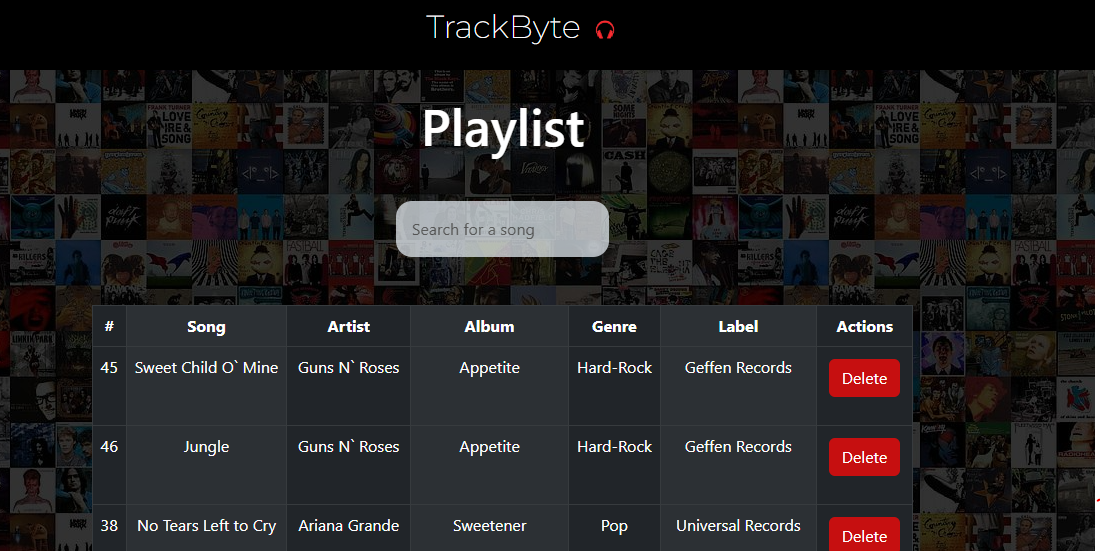
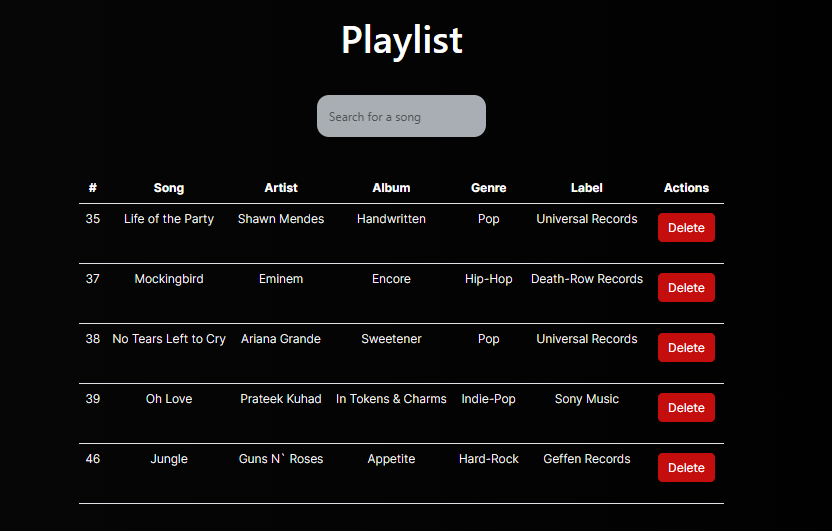
changed UI and improved queries

diff --git a/client/src/Home/Home.jsx b/client/src/Home/Home.jsx
@@ -8,11 +8,14 @@ const Home = () => {
   let barData=[];
   let pieLabelData=[];
   let pieData=[];
+  const [loaded,setLoaded]=useState(false)
+  const [loaded1,setLoaded1]=useState(false)
   const [loading, setLoading] = useState(true);
   const [loading1,setLoading1]=useState(true)
+  const [favArtist,setFavArtist]=useState('');
   const [userData,setUserData]=useState({})
   const [pieChartData,setPieChartData]=useState({})
-  
+  const loadGif="https://acegif.com/wp-content/uploads/loading-11.gif"
   //To get Bar Chart Data
   useEffect(()=>{
     setLoading(true);
@@ -27,11 +30,12 @@ const Home = () => {
           {
             label:"Seconds",
             data:barData,
-            backgroundColor: 'rgba(255, 99, 132, 0.5)'
+            backgroundColor: 'rgba(0, 0, 54.5, 1)'
           }
         ]
       });
     },)
+    .then((res)=>setLoaded(true))
     .catch((err)=>console.log(err)
     )
     .finally(() => {
@@ -40,16 +44,24 @@ const Home = () => {
 },[])
   const option = {
     responsive: true,
+    indexAxis: 'y',
     plugins: {
       legend: {
-        position: 'top',
+        position: 'right',
       },
-      title: {
-        display: true,
-        text: 'Chart.js Bar Chart',
+        title: {
+          display: true,
+          text: 'Chart.js Bar Chart',
+        },
+        scales:{
+          yAxes:{
+            ticks:{
+              color:'white'
+            },
+          }
+        }
       },
-    },
-  };
+    };
 
   //To get Pie Chart Data
   useEffect(()=>{
@@ -57,7 +69,7 @@ const Home = () => {
     axios.get("http://localhost:3000/getpiedata")
       .then((res)=>{for (const Obj of res.data) {
         pieLabelData.push(Obj.albumName);
-        pieData.push(Obj.seconds/2);
+        pieData.push(Obj.seconds);
       }
       setPieChartData({
         labels:pieLabelData,
@@ -76,35 +88,72 @@ const Home = () => {
         ]
       });
     },)
+    .then((res)=>setLoaded1(true))
     .catch((err)=>console.log(err)
     )
     .finally(() => {
       setLoading1(false);
     });
 },[])
-  // console.log(pieChartData)
+  // console.log(pieChartData.datasets[0].data[0])
+  useEffect(()=>{
+    axios.get("http://localhost:3000/getFavArt")
+    .then((res)=>setFavArtist(res.data[0]))
+    .catch((err)=>console.log(err))
+  },[])
+
   return (
-    <div>
+    <div className='p-5'>
       <Navbar/>
-      <h1 className='mt-5'> Your Analytics</h1>
-      <div className=' p-4 mt-5 text-white d-flex'>
-      <div className='p-4 chart bg-black'>
-      <h5 className='p-5 mx-auto'>
+      <h1 className='mt-5 '> Analytics</h1>
+      <hr/>
+      <div className=' p-4 mt-5 text-white d-flex justify-content-center align-items-center flex-row '>
+      <div className='p-4 col-6 chart'>
+      <h2 className='p-5'>
         Your favorite genres
-        </h5> 
+        </h2> 
         {
-          loading ? <img src="https://media.tenor.com/UnFx-k_lSckAAAAM/amalie-steiness.gif"/> : 
+          loading ? <img src={loadGif}/> : 
           <BarChart data={userData} options={option}/>
         } 
         </div>
-        <div className='bg-black mx-5 p-3 chart'>
-          <h5>
+        <div className='mx-3 col-6 p-5'>
+          <h2>
+          Your favorite genre is {loaded ? <p className='text-warning'>{userData.labels[0]}</p>:<></>}
+          </h2>
+          <h2>
+            You listened to {loaded ? userData.datasets[0].data[0]:<></>} seconds of it!
+          </h2>
+        </div>
+      </div>
+      <div className='p-4 mt-5 text-white d-flex justify-content-center align-items-center flex-row'>
+        <div className='mx-3 col-6'>
+          <h2>Your favorite album is {loaded1 ? <p className='text-danger'>{pieChartData.labels[0]}</p>:<></>}</h2>
+          <h2>You listened to {loaded1 ? pieChartData.datasets[0].data[0]: <></>} seconds of it!</h2>
+        </div>
+        <div className='mx-4 p-5  justify-content-center align-items-center col-5 chart'>
+          <h2 className='mt-2'>
             Your favorite albums
-          </h5>
+          </h2>
 {
-          loading1 ? <img src="https://media.tenor.com/UnFx-k_lSckAAAAM/amalie-steiness.gif"/> : 
+          loading1 ? <img src={loadGif} className='col-5'/> :
 <PieChart piedata={pieChartData}/>
         } 
+        </div>
+        </div>
+      <div className='mt-5  p-5 justify-content-center align-items-center'>
+        <h1>Artist</h1>
+        <hr/>
+        <div className='d-flex flex-row align-items-center justify-content-center'>
+        <img src={favArtist.link} className='mt-5 col-5 albumCover'/>
+        <div className='mx-5  mt-5 d-flex flex-column p-5'>
+        <h2>Your favorite artist is 
+          <p className='text-primary'>
+            {favArtist.artName}
+            </p>
+            </h2>
+        <h2 className='m-5'>You listened to {loaded ? favArtist.seconds : <></>} seconds of their music!</h2>
+        </div>
         </div>
       </div>
     </div>

diff --git a/client/src/index.css b/client/src/index.css
@@ -1,5 +1,5 @@
 :root {
-  font-family: Inter, Avenir, Helvetica, Arial, sans-serif;
+  font-family: Inter;
   font-size: 16px;
   line-height: 24px;
   font-weight: 400;
@@ -27,7 +27,7 @@ a:hover {
 body {
   margin: 0;
   display: flex;
-  place-items: center;
+  place-items:initial;
   min-width: 320px;
   min-height: 100vh;
 }
@@ -57,7 +57,14 @@ button:focus-visible {
 }
 
 .chart{
-  border-radius: 1em;
-  background-color: transparent;
-  
+  border-radius: 2em;
+  /* background-color:#343538; */
+  font-family:'Inter';
+  background-image:radial-gradient(at 82% 30%, rgba(20,20,57,0.46) 0px, transparent 50%),radial-gradient(at 100% 66%, #29183f 0px, transparent 50%),radial-gradient(at 100% 0%, #161339 0px, transparent 50%),radial-gradient(at 35% 0%, #21163b 0px, transparent 50%),radial-gradient(at 47% 59%, rgba(65,40,77,0.76) 0px, transparent 50%),radial-gradient(at 1% 2%, #3b244c 0px, transparent 50%),radial-gradient(at 75% 1%, #1a1439 0px, transparent 50%),radial-gradient(at 100% 0%, #191439 0px, transparent 50%),radial-gradient(at 0% 99%, #694e6e 0px, transparent 50%),radial-gradient(at 0% 64%, rgba(103,80,109,0.57) 0px, transparent 50%),radial-gradient(at 0% 24%, #694e6e 0px, transparent 50%),radial-gradient(at 100% 100%, #553c5d 0px, transparent 50%),radial-gradient(at 72% 100%, #1e1335 0px, transparent 50%),radial-gradient(at 35% 100%, #1e1335 0px, transparent 50%);
+}
+
+Table{
+  font-family:'Inter';
+  font-weight: 300;
+  max-width: 100%;
 }

diff --git a/client/src/Create/AddToPlaylist.jsx b/client/src/Create/AddToPlaylist.jsx
@@ -4,12 +4,14 @@ import axios from 'axios'
 const addToPlaylist = () => {
     const [songId,setSongId]=useState('')
     const [songName,setSongName]=useState('')
+    const [albumID,setAlbumID]=useState('')
     const [status,setStatus]=useState(false)
     const handleForm=(event)=>{
       event.preventDefault()
         axios.post('http://localhost:3000/addToPlaylist',{
             songId:songId,
-            songName:songName
+            songName:songName,
+            albumId:albumID
         }).then((res)=>setStatus(true))
         .catch((err)=>console.log(err))
     }
@@ -26,6 +28,8 @@ const addToPlaylist = () => {
                 <li><input type="number" className='m-4 p-2'  onChange={(event)=>setSongId(event.target.value)} required/></li>
                 <label>Song Name</label>
                 <li><input type="text" className='m-4 p-2' onChange={(event)=>setSongName(event.target.value)} required/></li>
+                <label>Album ID</label>
+                <li><input type="number" className='m-4 p-2' onChange={(event)=>setAlbumID(event.target.value)} required/></li>
                 <button className="m-4 submit text-white col-5" onClick={handleForm}>Submit</button>
                 {status ? <p>Song added to playlist</p> : <p className='text-danger'>Please enter correct details</p>}
                 </div>

diff --git a/client/src/Display/ViewAll.jsx b/client/src/Display/ViewAll.jsx
@@ -29,12 +29,12 @@ const ViewPlaylist = () => {
     <div>
       <Navbar/>
       <div className='p-5'>
-        <h1 className='mt-5 mb-5 pt-5'>Playlist</h1>
+        <h1 className='mt-5 mb-5 pt-5'>Songs</h1>
         <input placeholder='Search for a song' className='p-3 mb-5' role="search"
             value={query}
             onChange={(event) => {
               setQuery(event.target.value)}}></input>
-      <Table responsive striped="columns" bordered hover variant="dark">
+      <Table responsive variant="transparent" className='text-white'>
         <thead>
             <tr>
             <th>#</th>
@@ -42,7 +42,8 @@ const ViewPlaylist = () => {
             <th>Artist</th>
             <th>Genre</th>
             <th>Seconds</th>
-            <th>Actions</th>
+            <th>Album ID</th>
+            <th></th>
             </tr>
         </thead>
         <tbody>
@@ -53,6 +54,7 @@ const ViewPlaylist = () => {
         <td>{song.artName}</td>
         <td>{song.genre}</td>
         <td>{song.seconds}</td>
+        <td>{song.albumId}</td>
         <td>
             <ul className='list-unstyled d-flex '>
                 <li>

diff --git a/client/src/Create/AddSong.jsx b/client/src/Create/AddSong.jsx
@@ -9,6 +9,7 @@ const AddSong = () => {
     const [genre,setGenre]=useState('')
     const [albumID,setAlbumID]=useState('')
     const [seconds,setSeconds]=useState('')
+    const [success,setSuccess]=useState(false)
     const handleForm=(event)=>{
         event.preventDefault()
         axios.post("http://localhost:3000/add",{
@@ -18,7 +19,7 @@ const AddSong = () => {
           genre:genre,
           albumID:albumID,
           seconds:seconds
-        }).then((res)=>console.log('Success'))
+        }).then((res)=>setSuccess(true))
         .catch((err)=>console.log(err))
         
     }
@@ -48,6 +49,7 @@ const AddSong = () => {
                 </div>
                 <button className="m-4 submit text-white col-3" onClick={handleForm}>Submit</button>
                 </form>
+        {success ? <p>Song Added</p>:<p className='text-danger'>Please enter right details</p>}
             </ul>
         </div>
     </div>

diff --git a/client/index.html b/client/index.html
@@ -8,6 +8,7 @@
 <script src="https://cdn.jsdelivr.net/npm/bootstrap@5.2.3/dist/js/bootstrap.bundle.min.js" integrity="sha384-kenU1KFdBIe4zVF0s0G1M5b4hcpxyD9F7jL+jjXkk+Q2h455rYXK/7HAuoJl+0I4" crossorigin="anonymous"></script>
 <link rel="stylesheet" href="https://cdn.jsdelivr.net/npm/bootstrap-icons@1.10.2/font/bootstrap-icons.css">    
 <link rel="preconnect" href="https://fonts.googleapis.com"><link rel="preconnect" href="https://fonts.gstatic.com" crossorigin><link href="https://fonts.googleapis.com/css2?family=Montserrat:wght@100;200;300&display=swap" rel="stylesheet">
+<link rel="preconnect" href="https://fonts.googleapis.com"><link rel="preconnect" href="https://fonts.gstatic.com" crossorigin><link href="https://fonts.googleapis.com/css2?family=Inter:wght@300;400;500;600;700;800&display=swap" rel="stylesheet">
 <title>TrackByte</title>
   </head>
   <body>

diff --git a/client/src/App.css b/client/src/App.css
@@ -23,10 +23,19 @@
 }
 
 body{
+  /* background-color: black; */
 background-image: url('../public/bg.jpg');
+background: #000000;  
+background: -webkit-linear-gradient(to right, rgb(67, 67, 67), #000000);  
+background: linear-gradient(to right, #070707, #000000);
+
 } 
 .logo{
   max-width: 1em;
+}
+nav{
+  background: linear-gradient(to top, rgba(17, 17, 17, 0.897), #202020); /* W3C, IE 10+/ Edge, Firefox 16+, Chrome 26+, Opera 12+, Safari 7+ */
+  /* border-bottom: 1px solid rgb(20, 20, 20); */
 }
 
 input{
@@ -48,6 +57,7 @@ input{
 .albumCover{
   border-radius: 1em;
   border: none;
+  box-shadow: 20px 20px 4px rgba(158, 41, 253, 0.123);
 }
 
 .artist,.label,.genre {
@@ -60,4 +70,3 @@ input{
 .delete{
   background-color:rgba(209, 14, 14, 0.938);
 }
-

diff --git a/server/server.js b/server/server.js
@@ -11,6 +11,7 @@ const barData = require('./routes/barData')
 const pieData = require('./routes/pieData')
 const deleteFromPlaylist = require('./routes/deleteFromPlaylist')
 const displaySongs = require('./routes/displaySongs')
+const getFavArt = require('./routes/getFavArt')
 app.use(cors())
 app.use(express.json())
 app.get('/', (req, res) => res.json(''))
@@ -23,4 +24,5 @@ app.get('/album/:albumname',albumData)
 app.delete('/delfromplaylist',deleteFromPlaylist)
 app.get('/getbardata',barData)
 app.get('/getpiedata',pieData)
+app.get('/getFavArt',getFavArt)
 app.listen(port, () => console.log(`Example app listening on port ${port}!`))

diff --git a/server/routes/getFavArt.js b/server/routes/getFavArt.js
@@ -1,0 +1,17 @@
+const db=require('../db/connect')
+
+const getFavArt=async(req,res)=>{
+    db.query('select distinct a.artName,c.link, sum(s.seconds) as seconds from artist a, album al, playlist p,song s,albumcover c where a.artId=al.artId and p.albumId=al.albumId and s.albumId=al.albumId and al.albumId=c.albumId and s.songId=p.songId group by a.artName,al.albumName,c.link,s.seconds order by seconds desc limit 1;',
+    (err,result)=>{
+        if(err)
+        {
+            console.log(err)
+        }
+        else
+        {
+            res.json(result)
+        }
+    })
+}
+
+module.exports=getFavArt

diff --git a/server/routes/pieData.js b/server/routes/pieData.js
@@ -1,7 +1,7 @@
 const db=require('../db/connect')
 
 const pieData=async(req,res)=>{
-    db.query('select distinct al.albumName,sum(s.seconds) as seconds from artist a, album al, playlist p,song s where a.artId=al.artId and p.albumId=al.albumId and s.albumId=p.albumId group by al.albumName;',
+    db.query('select distinct al.albumName,sum(s.seconds) as seconds from artist a, album al, playlist p,song s where a.artId=al.artId and p.albumId=al.albumId and s.albumId=p.albumId and p.songId=s.songId group by al.albumName order by seconds desc limit 4;',
     (err,result)=>{
         if(err)
         {

diff --git a/client/src/Home/Navbar.jsx b/client/src/Home/Navbar.jsx
@@ -8,7 +8,7 @@ const Navbar = () => {
     const handleShow = () => setShow(true);
   return (
     <div>
-      <nav className="navbar-nav navbar-expand-lg fixed-top bg-black mb-5">
+      <nav className="navbar-nav navbar-expand-lg fixed-top mb-5">
         <ul className='list-unstyled d-flex flex-direction-row justify-content-center align-items-center mt-3'>
 <Button variant="dark" onClick={handleShow}>
       <i className="bi bi-list"></i>

diff --git a/server/routes/barData.js b/server/routes/barData.js
@@ -1,7 +1,7 @@
 const db=require('../db/connect')
 
 const barData=async(req,res)=>{
-    db.query('select s.genre, sum(s.seconds) as seconds from song s,playlist p where s.songId=p.songId group by s.genre;',
+    db.query('select s.genre, sum(s.seconds) as seconds from song s,playlist p where s.songId=p.songId group by s.genre order by seconds desc limit 3;',
     (err,result)=>{
         if(err)
         {
